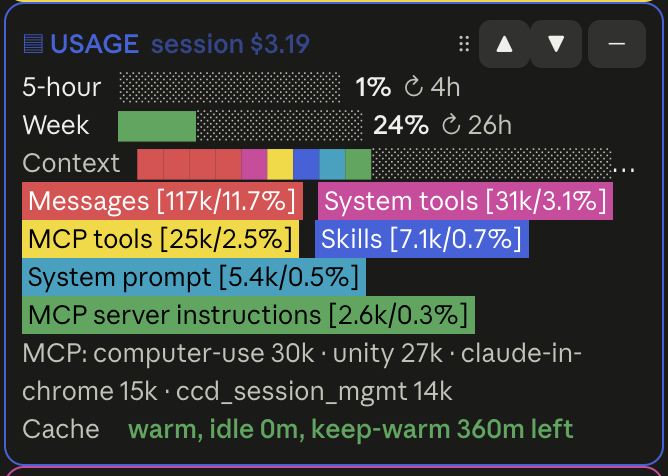
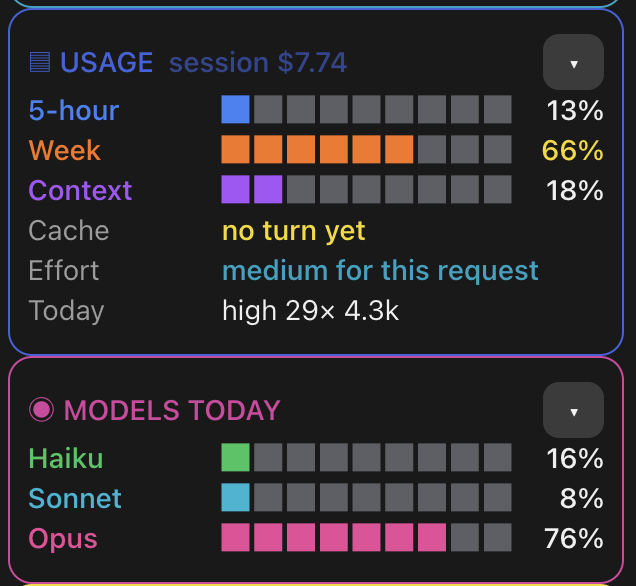
README: pane pictures retaken on 1.8.0, with Plan brief, Dead weight and History

diff --git a/README.md b/README.md
@@ -64,25 +64,33 @@ The header holds Fresh chat and Arrange, and one line that reads at a glance: co
 
 A bar is a row of cells. Each cell is a box the layout sizes, holding one block glyph, so a bar is always one line and always spans its full width, at any window size and in any font. The pane's column count only decides how many cells a bar has. Every meter has its own colour (5-hour, Week, Context, and each model); for a limit, the percent turns yellow, then red, as it nears the top.
 
-The pictures below are from 1.4; the layout has since changed as described here. New ones for 1.7.0 are pending.
-
-<p align="center"><img src="assets/header.png" alt="Command Deck header" width="420"></p>
+<p align="center"><img src="assets/header.png" alt="Command Deck header with version, Fresh chat, Arrange and the status line" width="420"></p>
 
 The board follows the plan, every subagent and the chat's own task list. Each subagent gets a card (the step its description names, or a new one) that is DOING while it runs and DONE when it returns. The main chat closes a card with `TodoWrite` or `TaskUpdate`, or, where it has no task tools, with a `Done: <title>` line in its reply (`Todo: <title>` adds one, `Skip: <title>` closes one dropped on purpose as skipped, shown grey in DONE). A plan that changes no code (release notes, research) gets no smoke test card. DOING means work is live: a card the main chat only touched goes back to TODO when its turn ends. When an answer leaves cards in TODO without those lines, a small Haiku call reads the answer and closes the ones it says are done or dropped; cards it is unsure of stay open.
 
 Above the lanes a bar shows the whole board: one colored stretch per card, in the same color as the mark on that card's row. Done is solid, the running stretch shimmers (a highlight sweeps across it; held lit with `reducedMotion`), a failed card is red, skipped cards are left out, and the percent warms from red to green.
 
-<p align="center"><img src="assets/board.png" alt="Kanban board with TODO, DOING and DONE lanes, each task tagged Haiku or Sonnet" width="420"></p>
+<p align="center"><img src="assets/board.png" alt="Board with its progress bar and done cards, each tagged Haiku or Sonnet" width="420"></p>
+
+The Plan brief section shows the brief the planner wrote for the request: the goal, and when the work counts as done.
+
+<p align="center"><img src="assets/plan.png" alt="Plan brief with goal, definition of done and the Work until done button" width="420"></p>
 
 Usage shows the 5-hour and weekly limits, the context bar and the cache state. `contextBreakdown` splits the context bar by what fills it. Models today has a row for Haiku, Sonnet and Opus, and for Fable once it has tokens.
 
-<p align="center"><img src="assets/usage.png" alt="Usage panel with limits, context breakdown and cache status" width="420"></p>
+<p align="center"><img src="assets/usage.png" alt="Usage panel with limits, context, cache and effort, and the Models today panel" width="420"></p>
 
 The savings counter estimates what Graft, the optimizer, Graphify, Ponytail, caveman mode and Command Deck itself kept out of the context. The Deck row is Command Deck's own part (routing, fresh chats, keep-warm, smart tools). The last row is the total of every row above, an educated guess like the rows it adds up.
 
 <p align="center"><img src="assets/savings.png" alt="Token saved today panel with estimated tokens and dollars per source" width="420"></p>
 
-<!-- TODO screenshot: assets/weight.png (Dead weight section) -->
+Dead weight lists the skills and MCP servers nothing has called, with what each costs in every chat.
+
+<p align="center"><img src="assets/weight.png" alt="Dead weight panel listing idle skills and MCP servers with a Remove button each" width="420"></p>
+
+History keeps finished cards across chats.
+
+<p align="center"><img src="assets/history.png" alt="History panel with finished cards, time and model tier" width="420"></p>
 
 ## Install
 
